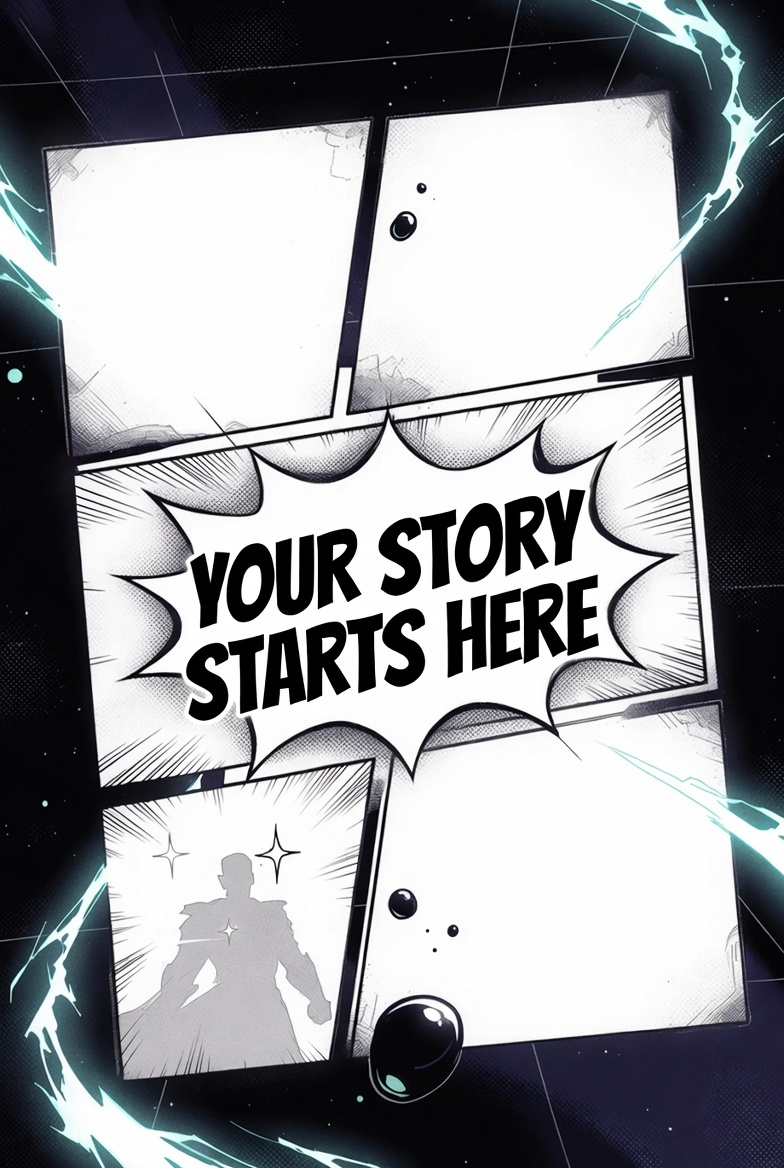
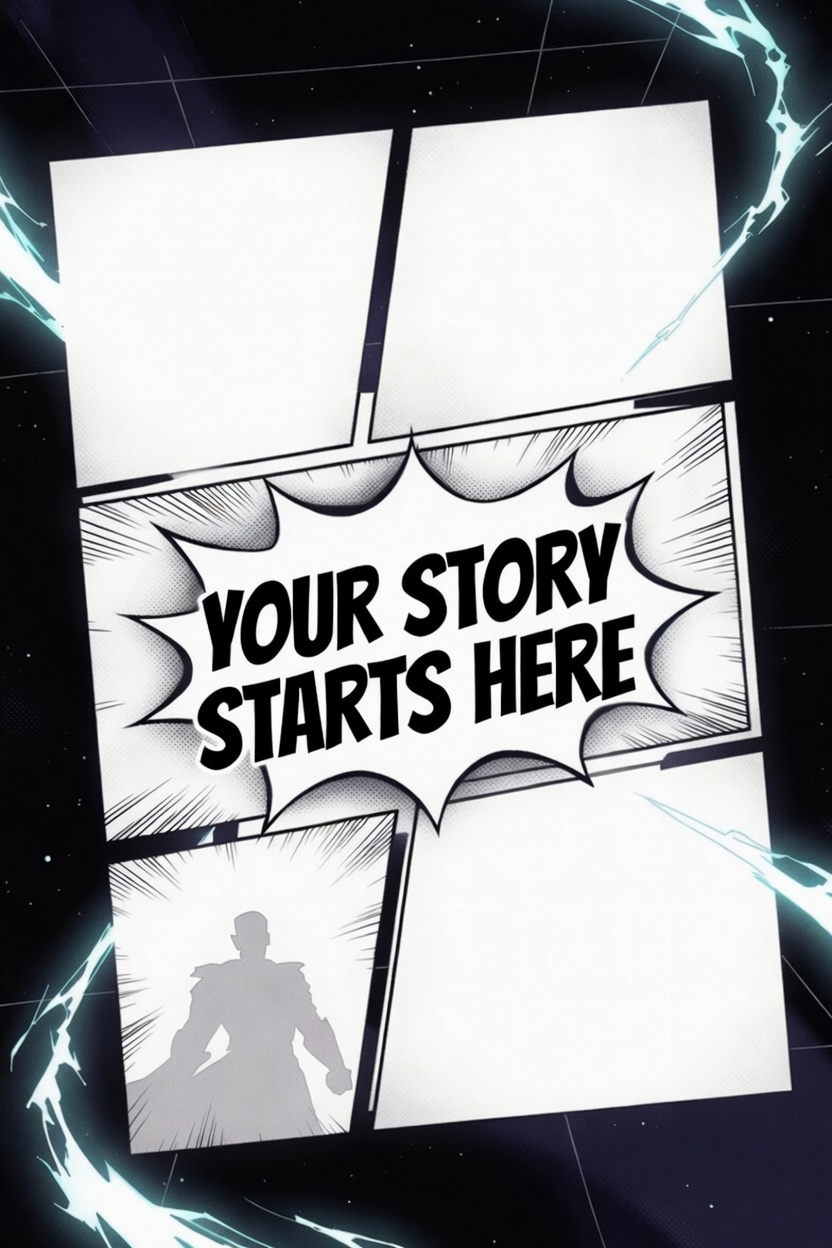
fix(hitl): drive per-panel review through Command(resume) and sign cover URLs
- Switch HITL/layout interrupts to LangGraph's Command(resume=...) flow.
  The previous state-input + fast-path approach lost panel-status updates
  across checkpoint writes, marking the wrong panels completed; clearing
  lastFeedback also didn't propagate reliably. With Command resume the
  first interrupt() returns the feedback value and is consumed, so the
  in-graph loop (hitlReview -> generatePanel) advances exactly one panel
  per user approval and re-interrupts cleanly on the next review.
- Worker now derives 'completed' status from actually-completed panels
  instead of currentPanelIndex, so regenerations don't prematurely
  finalize the comic; also recognizes 'GraphInterrupt' (the name
  LangGraph 1.x throws) alongside 'NodeInterrupt'.
- GET /api/projects/:id exchanges Supabase Storage paths for short-lived
  signed URLs before responding so next/image can render the cover and
  panels; http(s) URLs pass through unchanged.
- Whitelist **.supabase.co under images.remotePatterns scoped to
  /storage/v1/object/**.
- NewComicWizard treats step >= 4 as past the wizard's responsibility:
  clear persisted state on mount so "Brainstorm Idea" always lands at
  step 0 instead of resurrecting a previous run's layout chooser.

diff --git a/apps/api/server/workers/comic-worker.ts b/apps/api/server/workers/comic-worker.ts
@@ -1,4 +1,5 @@
 import { Worker, Job, Queue } from 'bullmq';
+import { Command } from '@langchain/langgraph';
 import type { LangGraphOrchestrationAdapter } from '@panelcraft/comic-generation';
 import type { RelationalDbPort } from '@panelcraft/comic-generation';
 import { ComicProject } from '@panelcraft/comic-project-management';
@@ -71,36 +72,46 @@ export function initComicWorker(
               { configurable: { thread_id: projectId } }
             );
           } catch (err) {
-            // Handle layout interrupt (NodeInterrupt from LangGraph)
             if (
               err &&
               typeof err === 'object' &&
               'name' in err &&
-              (err as { name: string }).name === 'NodeInterrupt'
+              ['NodeInterrupt', 'GraphInterrupt'].includes(
+                (err as { name: string }).name
+              )
             ) {
-              const state = await graph.getState({
-                configurable: { thread_id: projectId },
-              });
-              const updatedProject = ComicProject.fromJSON(
-                state.values.project
-              );
-              // Persist the cover + layout options that live at the LangGraph
-              // root state into the project entity so the layout chooser UI
-              // can read them back after the interrupt.
-              if (state.values.coverImageUrl) {
-                updatedProject.setCoverImageUrl(state.values.coverImageUrl);
-              }
-              if (Array.isArray(state.values.layoutOptions)) {
-                updatedProject.setLayoutOptions(state.values.layoutOptions);
-              }
-              updatedProject.setStatus('pending_layout');
-              await projectRepo.save(updatedProject);
               logger.info(
-                `[Worker] Project ${projectId} paused for layout selection`
+                `[Worker] Project ${projectId} paused by expected workflow interrupt`
               );
-              return;
+            } else {
+              throw err;
             }
-            throw err;
+          }
+
+          // The first interrupt in the workflow is the layout interrupt. If
+          // selectedLayout is still missing in the graph state we know the
+          // run paused there; persist pending_layout so the UI can render the
+          // layout chooser. Otherwise the run progressed past layout and
+          // interrupted at hitlReview after generating panel 0.
+          const startState = await graph.getState({
+            configurable: { thread_id: projectId },
+          });
+          if (!startState.values.selectedLayout) {
+            const updatedProject = ComicProject.fromJSON(
+              startState.values.project
+            );
+            if (startState.values.coverImageUrl) {
+              updatedProject.setCoverImageUrl(startState.values.coverImageUrl);
+            }
+            if (Array.isArray(startState.values.layoutOptions)) {
+              updatedProject.setLayoutOptions(startState.values.layoutOptions);
+            }
+            updatedProject.setStatus('pending_layout');
+            await projectRepo.save(updatedProject);
+            logger.info(
+              `[Worker] Project ${projectId} paused for layout selection`
+            );
+            return;
           }
 
           const currentThreadState = await graph.getState({
@@ -132,37 +143,34 @@ export function initComicWorker(
               `feedback: ${feedback ? 'present' : 'none'})`
           );
 
-          // Load latest project state from DB. Without a working checkpointer
-          // restore, this is the source of truth for previously-generated
-          // panels, the selected layout, and the panel index to resume from.
-          const dbProject = await projectRepo.load(projectId);
-          if (!dbProject) throw new Error(`Project ${projectId} not found`);
-          const dbProjectJson = dbProject.toJSON();
-          const layoutToUse =
-            selectedLayout || dbProjectJson.selectedLayout || undefined;
-          const nextPanelIndex = (dbProjectJson.panels || []).filter(
-            (p) => p.status === 'generated' || p.status === 'completed'
-          ).length;
+          // Build the LangGraph Command that resumes the suspended graph.
+          // The first interrupt() encountered after resume returns this value
+          // (consumeNullResume removes it after first use, so any later
+          // interrupt() in the same invoke — e.g. the *next* hitlReview after
+          // generatePanel in the in-graph loop — will throw and pause again).
+          let resumeValue: unknown;
+          if (feedback) {
+            resumeValue = feedback;
+          } else if (selectedLayout) {
+            resumeValue = { selectedLayout };
+          } else {
+            throw new Error(
+              `[Worker] resume-comic requires either feedback or selectedLayout`
+            );
+          }
 
           try {
-            await graph.invoke(
-              {
-                project: dbProjectJson,
-                selectedLayout: layoutToUse,
-                currentPanelIndex: nextPanelIndex,
-                lastFeedback: feedback ?? null,
-                threadId: projectId,
-              },
-              {
-                configurable: { thread_id: projectId },
-              }
-            );
+            await graph.invoke(new Command({ resume: resumeValue }), {
+              configurable: { thread_id: projectId },
+            });
           } catch (err) {
             if (
               err &&
               typeof err === 'object' &&
               'name' in err &&
-              (err as { name: string }).name === 'NodeInterrupt'
+              ['NodeInterrupt', 'GraphInterrupt'].includes(
+                (err as { name: string }).name
+              )
             ) {
               logger.info(
                 `[Worker] Project ${projectId} paused by expected workflow interrupt`
@@ -187,12 +195,17 @@ export function initComicWorker(
               currentThreadState.values.layoutOptions
             );
           }
+          const rawPanelCount = updatedProject.getPanelCount();
           const panelCountValue =
-            typeof updatedProject.getPanelCount() === 'number'
-              ? updatedProject.getPanelCount()
-              : updatedProject.getPanelCount().getValue();
+            typeof rawPanelCount === 'number'
+              ? rawPanelCount
+              : rawPanelCount.getValue();
 
-          if (currentThreadState.values.currentPanelIndex >= panelCountValue) {
+          const completedPanelCount = updatedProject
+            .getPanels()
+            .filter((p) => p.getStatus().getValue() === 'completed').length;
+
+          if (completedPanelCount >= panelCountValue) {
             updatedProject.setStatus('completed');
             logger.info(
               `[Worker] Comic generation completed for project ${projectId}.`
@@ -201,7 +214,7 @@ export function initComicWorker(
             updatedProject.setStatus('pending_review');
             logger.info(
               `[Worker] Panel ${currentThreadState.values.currentPanelIndex} generated. ` +
-                `Waiting for HITL review (${currentThreadState.values.currentPanelIndex}/${panelCountValue}).`
+                `Waiting for HITL review (${completedPanelCount}/${panelCountValue} completed).`
             );
           }
           await projectRepo.save(updatedProject);

diff --git a/packages/comic-generation/src/infrastructure/adapters/ImageGenerationNodes.ts b/packages/comic-generation/src/infrastructure/adapters/ImageGenerationNodes.ts
@@ -111,10 +111,8 @@ export async function layoutInterrupt(
   state: ComicGraphStateType,
   deps: WorkflowDeps
 ): Promise<ComicGraphStateType> {
-  // Fast-path: when the graph is re-invoked with selectedLayout in the input
-  // state (resume path), skip the interrupt and let the workflow continue.
-  // This guards against LangGraph checkpoint-restore issues — the user's
-  // choice from the previous invocation arrives via input state instead.
+  // Selection already in state (e.g. checkpoint already advanced past this
+  // node in a previous run); nothing to do.
   if (state.selectedLayout) {
     deps.logger.info(
       `Layout already selected (${state.selectedLayout}), skipping interrupt`
@@ -140,6 +138,10 @@ export async function layoutInterrupt(
     }
   }
 
+  // interrupt() throws GraphInterrupt on first hit and is resumed by the
+  // worker invoking with `new Command({ resume: { selectedLayout } })`.
+  // Subsequent interrupt() calls in later nodes will not re-consume this
+  // resume value because consumeNullResume() removes it after the first use.
   const selection = interrupt({
     type: 'layout_selection',
     coverImageUrl,
@@ -218,29 +220,40 @@ export async function hitlReview(
   const reviewPanelIndex = state.currentPanelIndex - 1;
   const panels = state.project.panels || [];
 
-  // Fast-path: when the worker re-invokes the graph with lastFeedback in the
-  // input state (resume-after-approval path), skip the interrupt and let the
-  // conditional edge route to the next node. Same workaround as layoutInterrupt
-  // for the checkpoint-restore issue.
-  if (state.lastFeedback) {
-    deps.logger.info(
-      `Feedback already provided for panel ${reviewPanelIndex} ` +
-        `(approved: ${state.lastFeedback.approved}), skipping interrupt`
-    );
-    return state;
-  }
-
+  // interrupt() throws GraphInterrupt on first hit. On resume via
+  // `new Command({ resume: feedback })` it returns the feedback value here.
+  // In the in-graph loop, this node runs once per panel: the *first*
+  // hitlReview call within a single invoke is the one consumed by Command's
+  // resume; later calls (after another generatePanel) will throw again
+  // because consumeNullResume() removes the resume after first use.
   const feedback = interrupt({
     panelIndex: reviewPanelIndex,
     panel: panels[reviewPanelIndex],
     message: 'Review generated panel and provide feedback',
   }) as HITLFeedbackData;
 
+  deps.logger.info(
+    `Applying HITL feedback for panel ${reviewPanelIndex} (approved: ${feedback.approved})`
+  );
+
+  const updatedPanels = [...panels];
+  if (reviewPanelIndex >= 0 && updatedPanels[reviewPanelIndex]) {
+    updatedPanels[reviewPanelIndex] = {
+      ...(updatedPanels[reviewPanelIndex] as PanelJSON),
+      status: feedback.approved ? 'completed' : 'pending',
+    };
+  }
+
   const newIndex = feedback.approved
     ? state.currentPanelIndex
     : state.currentPanelIndex - 1;
 
-  return { ...state, lastFeedback: feedback, currentPanelIndex: newIndex };
+  return {
+    ...state,
+    project: { ...state.project, panels: updatedPanels },
+    lastFeedback: feedback,
+    currentPanelIndex: newIndex,
+  };
 }
 
 export async function finalizeComic(

diff --git a/apps/api/server/api/projects/[id]/index.get.ts b/apps/api/server/api/projects/[id]/index.get.ts
@@ -3,12 +3,36 @@ import { z } from 'zod';
 import { ok } from '../../../utils/envelope.js';
 import { parseParams } from '../../../utils/validation.js';
 import { getComicUseCase } from '../../../utils/dependencies.js';
+import { getSignedUrl } from '../../../utils/supabase.js';
+import { createLogger } from '@panelcraft/shared';
+
+const logger = createLogger('projects.get');
 
 interface PanelJSON {
   id: string;
   prompt?: string;
   status: string;
   generatedImageUrl?: string | null;
+}
+
+/**
+ * Convert a Supabase Storage path stored on a project (e.g. `comics/<id>/covers/front.webp`)
+ * to a freshly-signed short-lived URL the frontend can render. Returns the
+ * original value unchanged if it's already an http(s) URL or empty.
+ */
+async function toSignedUrlIfPath(
+  value: string | null | undefined
+): Promise<string | null> {
+  if (!value) return null;
+  if (/^https?:\/\//i.test(value)) return value;
+  try {
+    return await getSignedUrl('comics', value);
+  } catch (err) {
+    logger.warn(
+      `Failed to sign storage path ${value}: ${err instanceof Error ? err.message : String(err)}`
+    );
+    return null;
+  }
 }
 
 /**
@@ -25,6 +49,16 @@ export default defineEventHandler(async (event) => {
   });
   const project = await getComicUseCase(event).getProject(id);
   const j = project.toJSON();
+
+  // Storage paths persisted in DB must be exchanged for short-lived signed
+  // URLs before reaching the browser — `next/image` rejects relative paths.
+  const [coverImageUrl, ...panelImageUrls] = await Promise.all([
+    toSignedUrlIfPath(j.coverImageUrl),
+    ...(j.panels || []).map((p: PanelJSON) =>
+      toSignedUrlIfPath(p.generatedImageUrl)
+    ),
+  ]);
+
   return ok({
     project: {
       id: j.id,
@@ -36,7 +70,7 @@ export default defineEventHandler(async (event) => {
       genres: j.genres,
       tones: j.tones,
       styleReferences: j.styleReferences,
-      coverImageUrl: j.coverImageUrl,
+      coverImageUrl,
       selectedLayout: j.selectedLayout,
       layoutOptions: j.layoutOptions,
       // Panels
@@ -46,7 +80,7 @@ export default defineEventHandler(async (event) => {
           index: idx,
           status: p.status,
           prompt: p.prompt,
-          imageUrl: p.generatedImageUrl,
+          imageUrl: panelImageUrls[idx],
         })) || [],
     },
   });

diff --git a/packages/comic-generation/src/infrastructure/adapters/LangGraphOrchestrationAdapter.ts b/packages/comic-generation/src/infrastructure/adapters/LangGraphOrchestrationAdapter.ts
@@ -75,16 +75,19 @@ export class LangGraphOrchestrationAdapter {
     workflow.addEdge('suggestLayouts', 'layoutInterrupt');
     workflow.addEdge('layoutInterrupt', 'generatePanel');
     workflow.addEdge('generatePanel', 'hitlReview');
-    // After each panel + (skipped) review, either finalize when all panels
-    // are done or stop the workflow so the worker can save pending_review
-    // and wait for the user's next approval. The previous in-graph loop
-    // cascaded through all remaining panels on a single resume because the
-    // checkpointer doesn't reliably re-interrupt at hitlReview.
+    // hitlReview either:
+    //  - finalizes the comic if all panels are reviewed,
+    //  - loops back to generatePanel for the next panel (after applying
+    //    feedback from a previous resume), or
+    //  - interrupts and waits for the next user review.
+    // The in-graph loop is safe because hitlReview clears lastFeedback after
+    // applying it, so subsequent invocations of the node within the same run
+    // will hit the interrupt() path instead of cascading.
     workflow.addConditionalEdges('hitlReview', (state: ComicGraphStateType) => {
       if (state.currentPanelIndex >= state.project.panelCount) {
         return 'finalizeComic';
       }
-      return END;
+      return 'generatePanel';
     });
     workflow.addEdge('finalizeComic', END);
 

diff --git a/apps/api/nitro.config.ts b/apps/api/nitro.config.ts
@@ -1,7 +1,16 @@
 import { fileURLToPath } from 'url';
 import { dirname, resolve } from 'path';
+import { config as loadEnv } from 'dotenv';
 
 const __dirname = dirname(fileURLToPath(import.meta.url));
+const rootEnvPath = resolve(__dirname, '../../.env');
+
+// Load the monorepo-root .env into process.env BEFORE the runtimeConfig literal
+// below is evaluated. Nitro's built-in loader only looks in apps/api/, where no
+// .env exists, so without this all process.env reads in this file would see an
+// empty environment and silently fall back to defaults — most visibly making
+// DISABLE_REDIS=false in the root .env get overridden by the 'true' fallback.
+loadEnv({ path: rootEnvPath });
 
 const corsOrigins = process.env.CORS_ORIGIN
   ? process.env.CORS_ORIGIN.split(',').map((o) => o.trim())
@@ -17,7 +26,7 @@ export default {
   },
 
   runtimeConfig: {
-    rootEnvPath: resolve(__dirname, '../../.env'),
+    rootEnvPath,
     port: process.env.PORT ?? '3001',
     redisHost: process.env.REDIS_HOST ?? 'localhost',
     redisPort: process.env.REDIS_PORT ?? '6379',

diff --git a/apps/web/src/components/new-comic/NewComicWizard.tsx b/apps/web/src/components/new-comic/NewComicWizard.tsx
@@ -10,6 +10,7 @@ import { NewComicWizardSidebar } from './NewComicWizardSidebar';
 import { useObjectUrls, useWizardPersistence } from '../../lib/hooks';
 import {
   getWizardState,
+  clearWizardState,
   IndexedDBQuotaExceededError,
 } from '../../lib/indexedDB';
 import {
@@ -58,12 +59,19 @@ export function NewComicWizard() {
       if (typeof window === 'undefined') return getDefaultWizardValues();
       const saved = await getWizardState();
       if (saved?.wizardStateVersion === 1) {
+        // Post-submission state (layout chooser) lives on the project page;
+        // dropping users straight back into step 4 when they click "Brainstorm
+        // Idea" is jarring. Treat reaching step 4 as the end of the wizard's
+        // responsibility and start the next visit fresh.
+        if (saved.step >= 4) {
+          await clearWizardState();
+          return getDefaultWizardValues();
+        }
         setActiveStep(saved.step);
         setReferenceImageBlobs(saved.referenceImageBlobs || {});
         setMoodBoardImageBlobs(saved.moodBoardImageBlobs || []);
         setPreferredLayoutId(saved.preferredLayoutId || null);
         setProjectId(saved.projectId || null);
-        if (saved.step === 4 && saved.projectId) setIsPolling(true);
         return saved.formValues as WizardFormValues;
       }
       return getDefaultWizardValues();